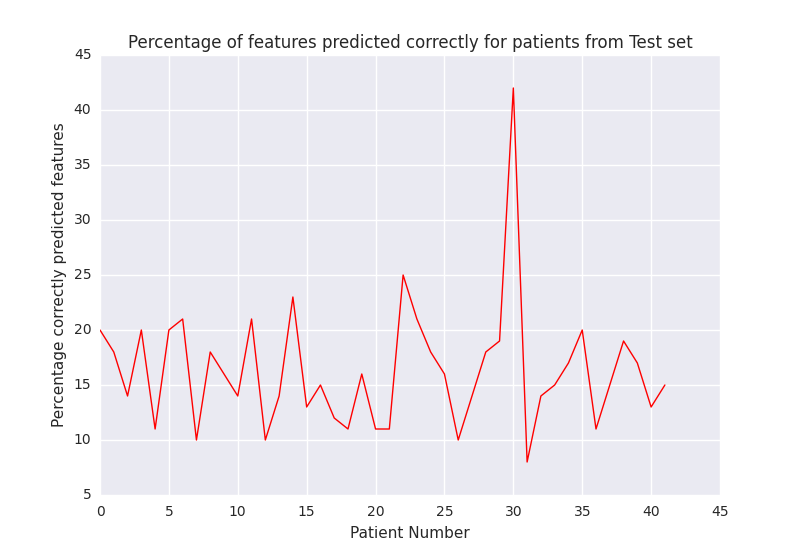
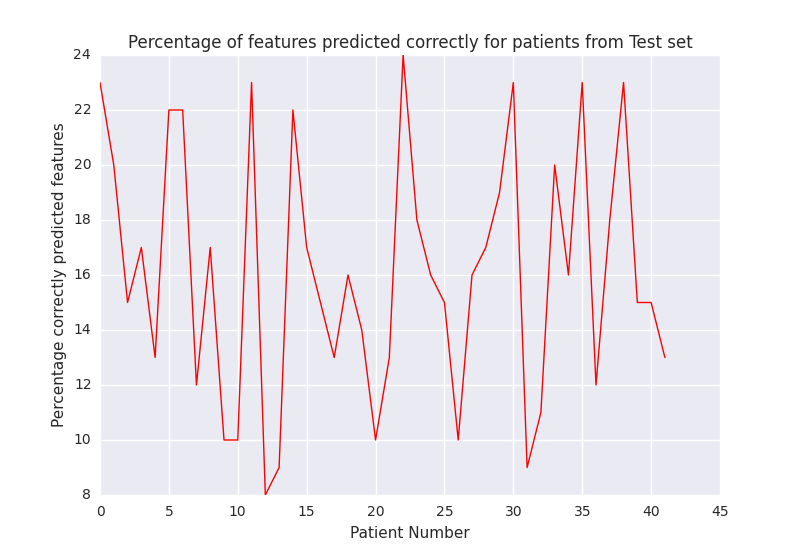
All pushed. commented some plotiting stuffs

diff --git a/kgbm.py b/kgbm.py
@@ -10,7 +10,7 @@ import matplotlib.colors as colors
 import seaborn as sns
 import os
 import shutil
-
+import itertools
 
 def read_data(filename):
     f = open(filename)
@@ -22,6 +22,8 @@ def read_data(filename):
 
 
 def create_columns(A):
+    num_col = A.shape[1]
+
     matrix_columns = []
     for i in range(A.shape[1]):
         matrix_columns.append(A[:, i])
@@ -44,6 +46,16 @@ def create_columns(A):
         A = np.column_stack((A, new_vector))
         A = np.column_stack((A, np.divide(1.0, 2.0 + vector)))
     # print 'After', A.shape
+    # A = np.column_stack(A, np.multiply(matrix_columns[0], matrix_columns[1]))
+    # A = np.column_stack(A, np.multiply(matrix_columns[0], matrix_columns[2]))
+
+    l = range(num_col)
+
+    index_comb = itertools.combinations(range(A.shape[1]),2)
+    for (i,j) in index_comb:
+        np.column_stack(  (A,  np.multiply(A[:,i], A[:,j])  )  )
+        #
+        # np.column_stack(A, np.multiply(A[:,i], A[:,j]))
     return A
 
 def find_nearest_patients(A, training_files):
@@ -62,12 +74,12 @@ def main(k):
     random.seed(5)
     NO_MODEL = True
     path = os.environ['HOME']+'/parkinson/gbm_model_figs/'+ str(k) + '_nearest/'
-    feature_path = path + 'feature_error_hists/'
-    if os.path.exists(path):
-        shutil.rmtree(path)
-    else:
-        os.mkdir(path, 0777)
-        os.mkdir(path + 'feature_error_hists/', 0777)
+    # feature_path = path + 'feature_error_hists/'
+    # if os.path.exists(path):
+    #     shutil.rmtree(path)
+    # else:
+    #     os.mkdir(path, 0777)
+        #os.mkdir(path + 'feature_error_hists/', 0777)
 
     # list of models for each patient
     models = {}
@@ -186,7 +198,10 @@ def main(k):
     plt.xlabel("Patient Number")
     plt.title(
         "Percentage of features predicted correctly for patients from Test set")
-    plt.savefig(path + '/'+ str(k)+'_gbm_model_feature_accuracy.png')
+
+    name = path + str(k)+'_gbm_model_feature_accuracy.png'
+    print name, '================='
+    plt.savefig(path + str(k)+'_gbm_model_feature_accuracy.png')
 
     fig2 = plt.figure(figsize=(12,16))
     # Error Matrix Plotting
@@ -195,21 +210,22 @@ def main(k):
     # The Error Matrix Heat map
     ax = sns.heatmap(np.fabs(error_matrix), cmap="YlOrRd" )
     a = ax.get_figure()
+    #a.show()
     a.savefig(path + str(k)+'_test_error_matrix.png')
 
 
-    for feature_num in range(100):
-        # for all 42 patients
-        fig = plt.figure()
-
-        feature_i = error_matrix[feature_num, :]
-        plt.hist(feature_i)
-        plt.title("Feature error Histogram for feature number: " +
-                  str(feature_num + 1))
-        name = str(k)+'_feature_' + str(feature_num + 1) + '_histogram'
-        fig.savefig(path + '/feature_error_hists/'+name, bbox_inches='tight')
+    # for feature_num in range(100):
+    #     # for all 42 patients
+    #     fig = plt.figure()
+    #
+    #     feature_i = error_matrix[feature_num, :]
+    #     plt.hist(feature_i)
+    #     plt.title("Feature error Histogram for feature number: " +
+    #               str(feature_num + 1))
+    #     name = str(k)+'_feature_' + str(feature_num + 1) + '_histogram'
+    #     fig.savefig(path + '/feature_error_hists/'+name, bbox_inches='tight')
 
 if __name__ == '__main__':
-    K = [3,5,7,9,15]
+    K = [1,3,5,7,9,10]
     for i in K:
         main(i)

diff --git a/avgmodel.py b/avgmodel.py
@@ -26,7 +26,7 @@ def main():
     models = {}
 
     # Prediction and Testing feature match tolerance
-    tolerance = 1.0
+    tolerance = 0.1
 
     files = glob.glob(
         "patient_wise_data/*.csv")
@@ -127,7 +127,7 @@ def main():
     plt.ylabel("Percentage correctly predicted features")
     plt.xlabel("Patient Number")
     plt.title(
-        "AVG Nodel: Percentage of features predicted correctly for patients from Test set")
+        "AVG Model: Percentage of features predicted correctly for patients from Test set")
     fig1.savefig('avg_model_figs/not_normalized/avg_model_feature_accuracy.png')
 
 
@@ -143,23 +143,25 @@ def main():
     error = LA.norm(error_matrix)
 
     error_matrix = error_matrix.transpose()
+    print error_matrix
+    print error_matrix.shape
 
     # print 'Plotting feature error distributions'
-    for feature_num in range(42):
-        # for all 42 patients
-        fig = plt.figure()
-
-        feature_i = error_matrix[feature_num, :]
-        plt.hist(feature_i)
-        plt.title("Avg Model: Histogram with 'auto' bins for feature #" +
-                  str(feature_num + 1))
-        name = 'avg_model_figs/not_normalized/feature_distribution_plots/feature_' + str(feature_num + 1) + '_histogram'
-        fig.savefig(name, bbox_inches='tight')
+    # for feature_num in range(42):
+    #     # for all 42 patients
+    #     fig = plt.figure()
+    #
+    #     feature_i = error_matrix[feature_num, :]
+    #     plt.hist(feature_i)
+    #     plt.title("Avg Model: Histogram with 'auto' bins for feature #" +
+    #               str(feature_num + 1))
+    #     name = 'avg_model_figs/not_normalized/feature_distribution_plots/feature_' + str(feature_num + 1) + '_histogram'
+    #     fig.savefig(name, bbox_inches='tight')
 
 
     fig2 = plt.figure(figsize=(12,16))
     print 'Creating heatman for Error matrix'
-    ax = sns.heatmap(error_matrix, cmap="YlOrRd", xticklabels=False)
+    ax = sns.heatmap(np.fabs(error_matrix), cmap="YlOrRd", xticklabels=False)
     ax.set(xlabel='feature number', ylabel='patient id', title='AVG Model Error Matix on Test set')
     a = ax.get_figure()
     a.savefig('avg_model_figs/not_normalized/avg_model_error_matrix.png')

diff --git a/lasso_on_normalized.py b/lasso_on_normalized.py
@@ -141,22 +141,22 @@ def main():
     # Error Matrix Plotting
     print 'Plotting Heatmap for error matrix'
     # The Error Matrix Heat map
-    ax = sns.heatmap(np.fabs(er_matrix), cmap="YlOrRd", xticklabels=False)
-    ax.set(xlabel='feature number', ylabel='patient id', title='Error Matix on Test set')
+    ax = sns.heatmap(np.fabs(er_matrix.transpose()), cmap="YlOrRd", xticklabels=False)
+    ax.set(xlabel='patient id', ylabel='feature number', title='Error Matix on Test set')
     a = ax.get_figure()
     a.savefig('lasso_model_figs/normalized/lasso_normalized_test_error_matrix.png')
 
     print 'Plotting feature error distributions'
     # plots the feature error distribution
-    for feature_num in range(42):
-        # for all 42 patients
-        fig3 = plt.figure()
-        feature_i = er_matrix[feature_num, :]
-        plt.hist(feature_i)
-        plt.title("Lasso (normalized) Histogram with 'auto' bins for feature #" +
-                  str(feature_num + 1))
-        name = 'lasso_model_figs/normalized/feature_distribution_plots/feature_' + str(feature_num + 1) + '_histogram'
-        fig3.savefig(name, bbox_inches='tight')
+    # for feature_num in range(42):
+    #     # for all 42 patients
+    #     fig3 = plt.figure()
+    #     feature_i = er_matrix[feature_num, :]
+    #     plt.hist(feature_i)
+    #     plt.title("Lasso (normalized) Histogram with 'auto' bins for feature #" +
+    #               str(feature_num + 1))
+    #     name = 'lasso_model_figs/normalized/feature_distribution_plots/feature_' + str(feature_num + 1) + '_histogram'
+    #     fig3.savefig(name, bbox_inches='tight')
 
     # plot the errors
     fig4 = plt.figure()

diff --git a/k_weighted_closest_patient.py b/k_weighted_closest_patient.py
@@ -113,7 +113,7 @@ def main(k):
             # now read patid file
             filename = 'normalized_data/'+patid
             closest_A, closest_Y = read_data(filename)
-            weight = (float(distance) - min_d)/(max_d - min_d)
+            weight = 1.0/((float(distance) - min_d)/(max_d - min_d) + 1)
             # print 'distance', distance, 'min', min_d, 'max', max_d, 'denom', max_d - min_d, 'num', distance - min_d
             closest_Y = weight * closest_Y
 

diff --git a/avgmodel_kclosest.py b/avgmodel_kclosest.py
@@ -43,7 +43,7 @@ def main(k):
     #     os.mkdir(path + '/feature_error_hists/', 0777)
 
 
-    tolerance = 0.1
+    tolerance = 0.4
     # list of models for each patient
     models = {}
 
